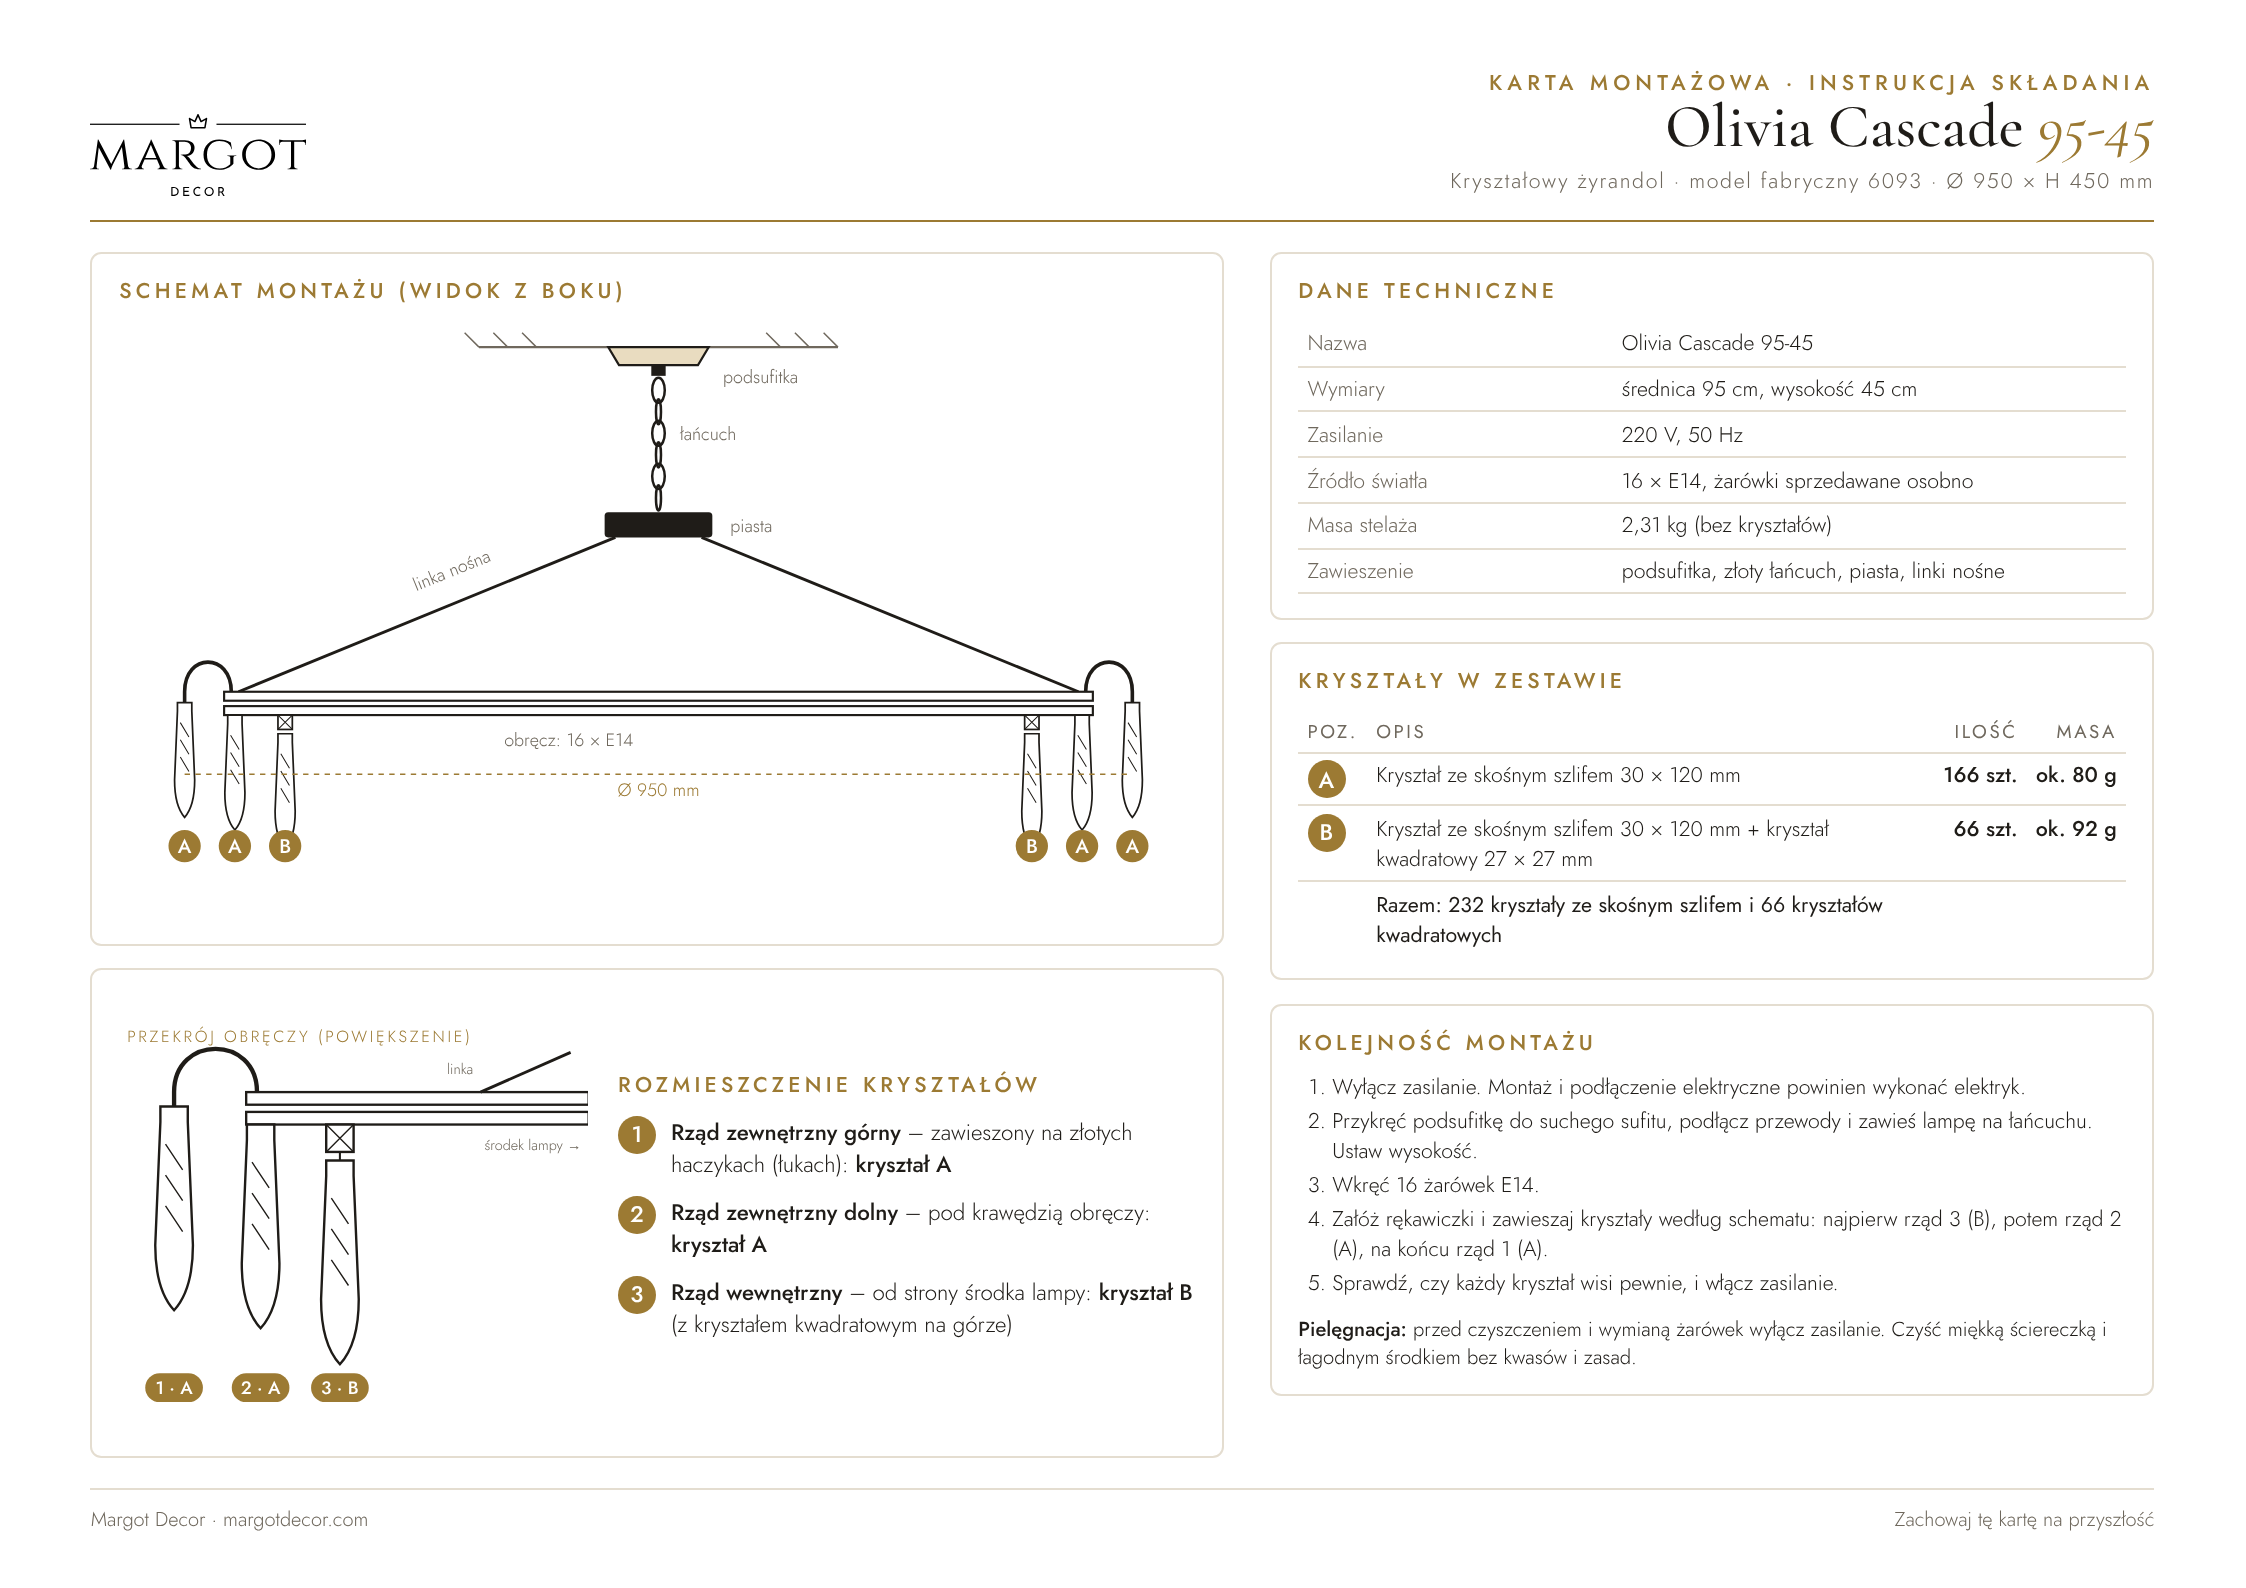
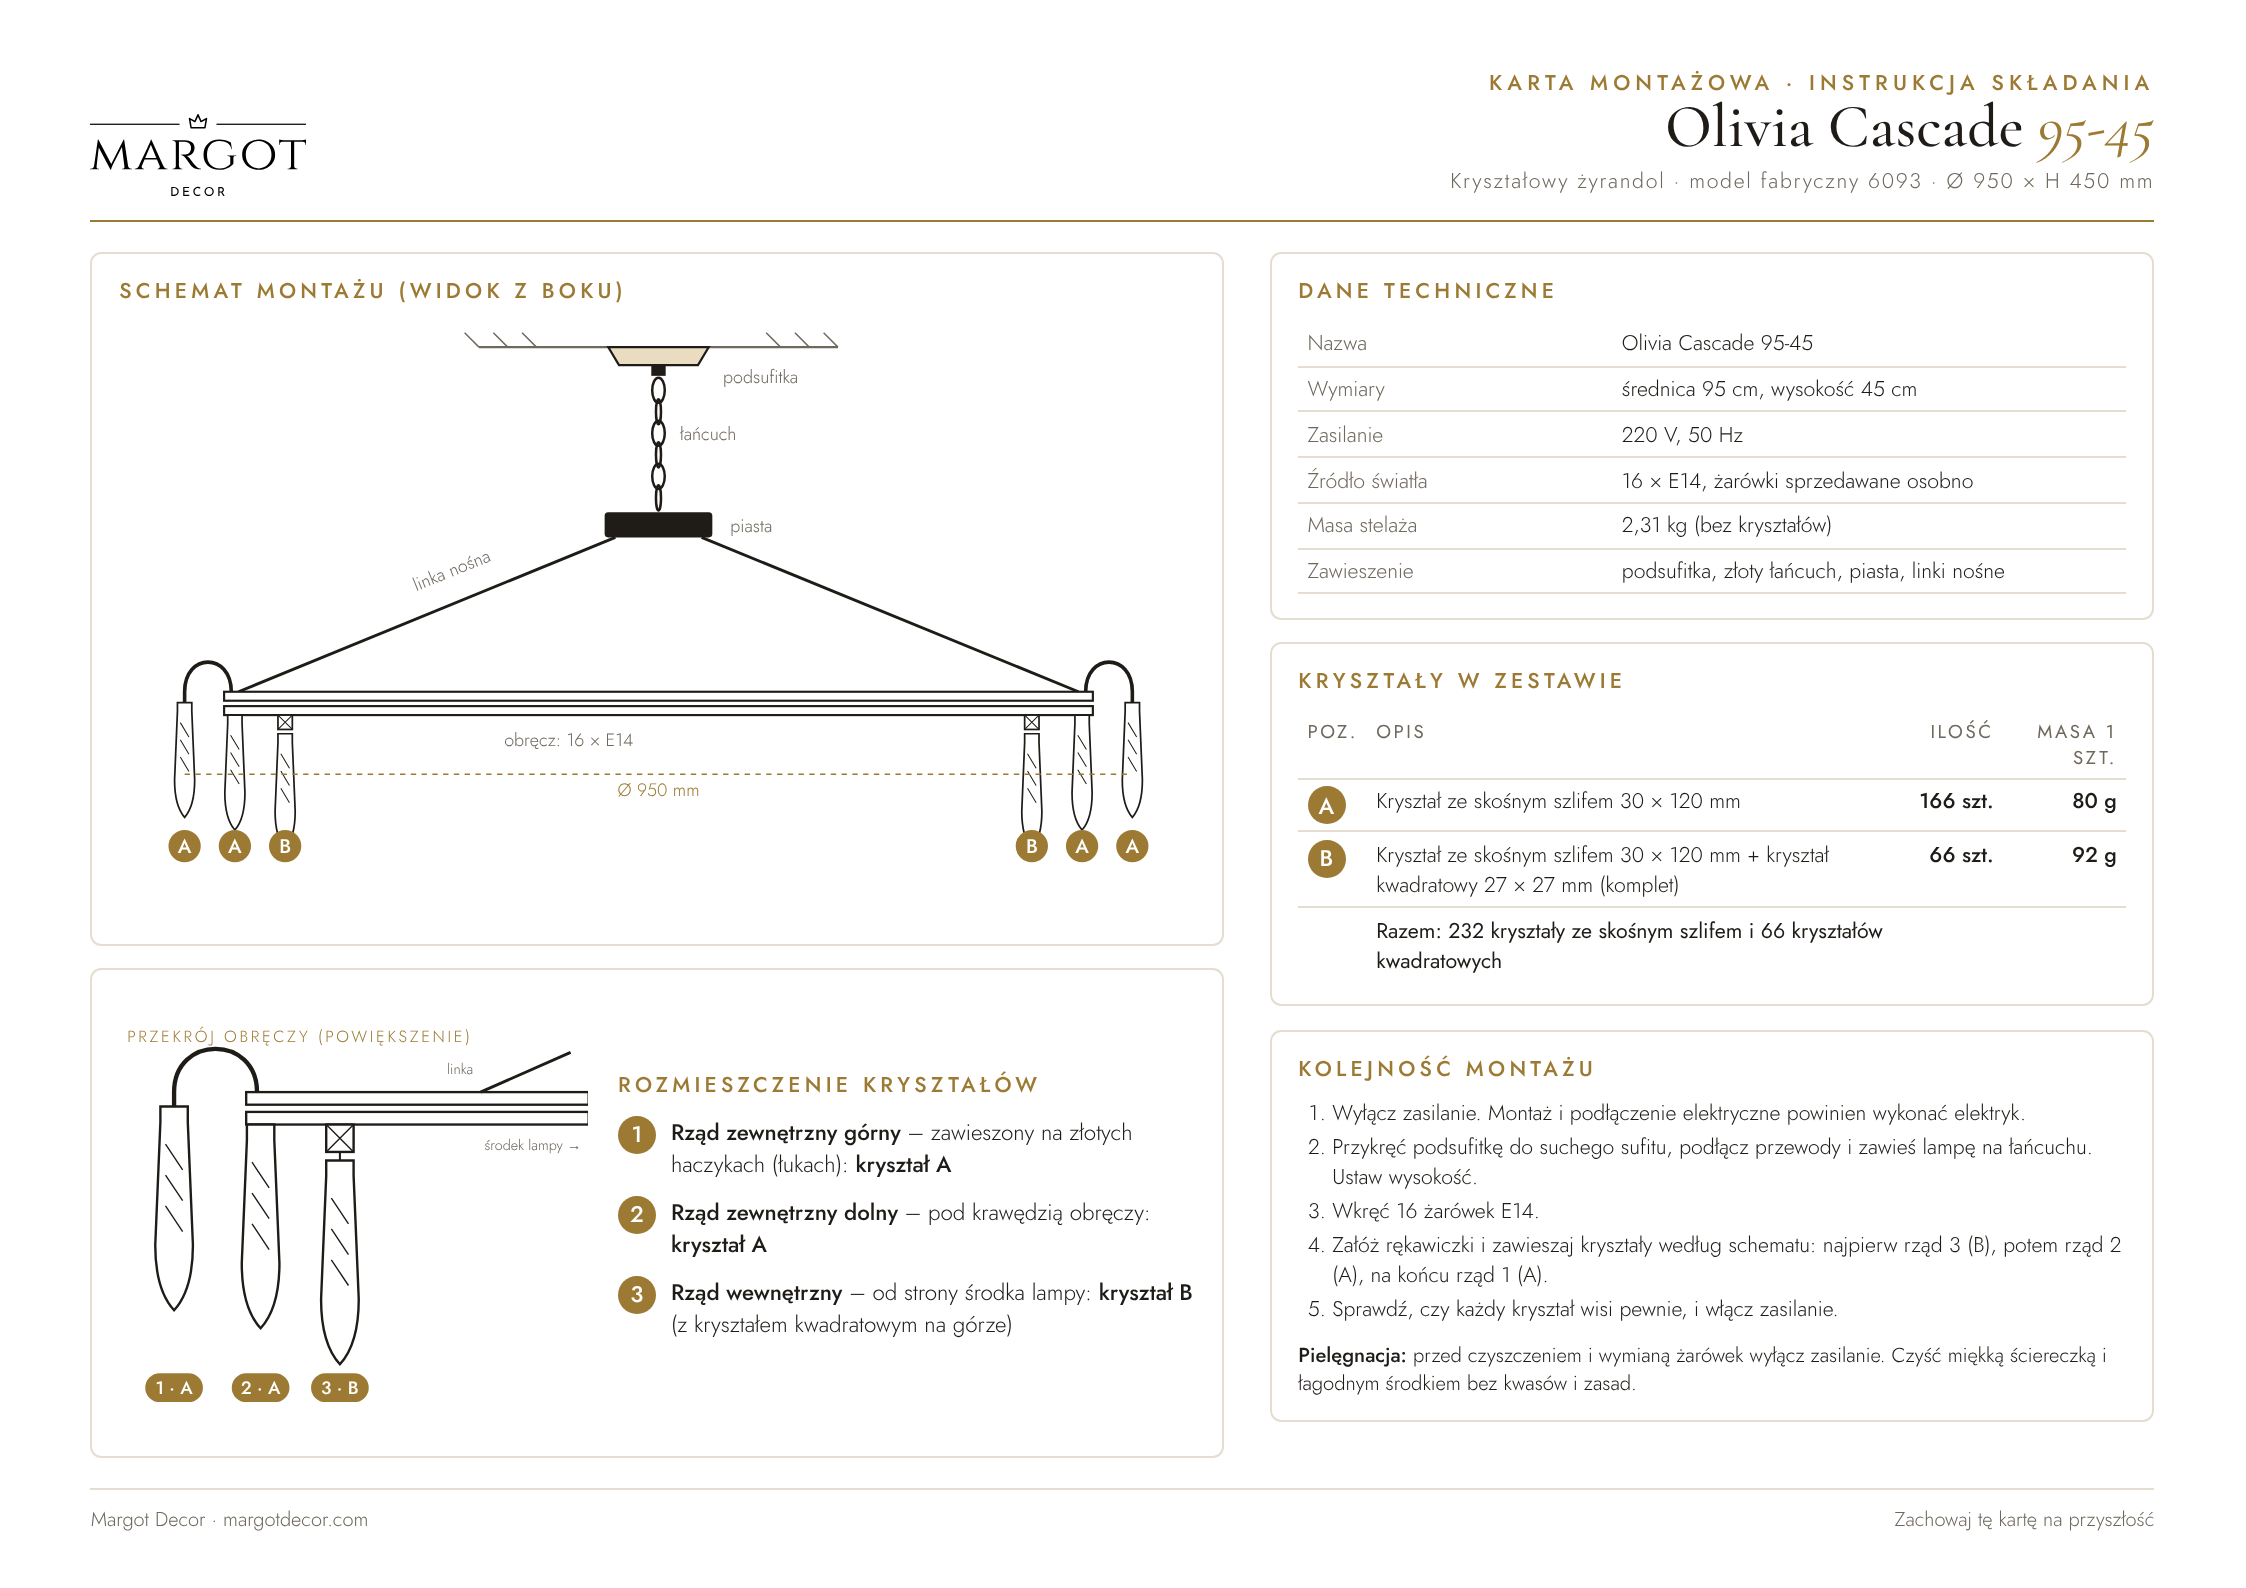
Olivia: masy kryształów na sztukę (A 80 g, B komplet 92 g)
Claude-Session: https://claude.ai/code/session_019JU5iDL1iLjxdUeDavujNp

diff --git a/szablony/karta-montazowa/olivia-cascade-95-45/karta-montazowa-olivia-cascade-95-45.html b/szablony/karta-montazowa/olivia-cascade-95-45/karta-montazowa-olivia-cascade-95-45.html
@@ -171,9 +171,9 @@ footer { display:flex; justify-content:space-between; font-size:7.5pt; color:var
   <div class="box">
     <h2>Kryształy w zestawie</h2>
     <table>
-      <tr><th>Poz.</th><th>Opis</th><th style="text-align:right">Ilość</th><th style="text-align:right">Masa</th></tr>
-      <tr><td><span class="tag">A</span></td><td>Kryształ ze skośnym szlifem 30 × 120 mm</td><td class="n">166 szt.</td><td class="n">ok. 80 g</td></tr>
-      <tr><td><span class="tag">B</span></td><td>Kryształ ze skośnym szlifem 30 × 120 mm + kryształ kwadratowy 27 × 27 mm</td><td class="n">66 szt.</td><td class="n">ok. 92 g</td></tr>
+      <tr><th>Poz.</th><th>Opis</th><th style="text-align:right">Ilość</th><th style="text-align:right">Masa 1 szt.</th></tr>
+      <tr><td><span class="tag">A</span></td><td>Kryształ ze skośnym szlifem 30 × 120 mm</td><td class="n">166 szt.</td><td class="n">80 g</td></tr>
+      <tr><td><span class="tag">B</span></td><td>Kryształ ze skośnym szlifem 30 × 120 mm + kryształ kwadratowy 27 × 27 mm (komplet)</td><td class="n">66 szt.</td><td class="n">92 g</td></tr>
       <tr class="sum"><td></td><td>Razem: 232 kryształy ze skośnym szlifem i 66 kryształów kwadratowych</td><td></td><td></td></tr>
     </table>
   </div>
